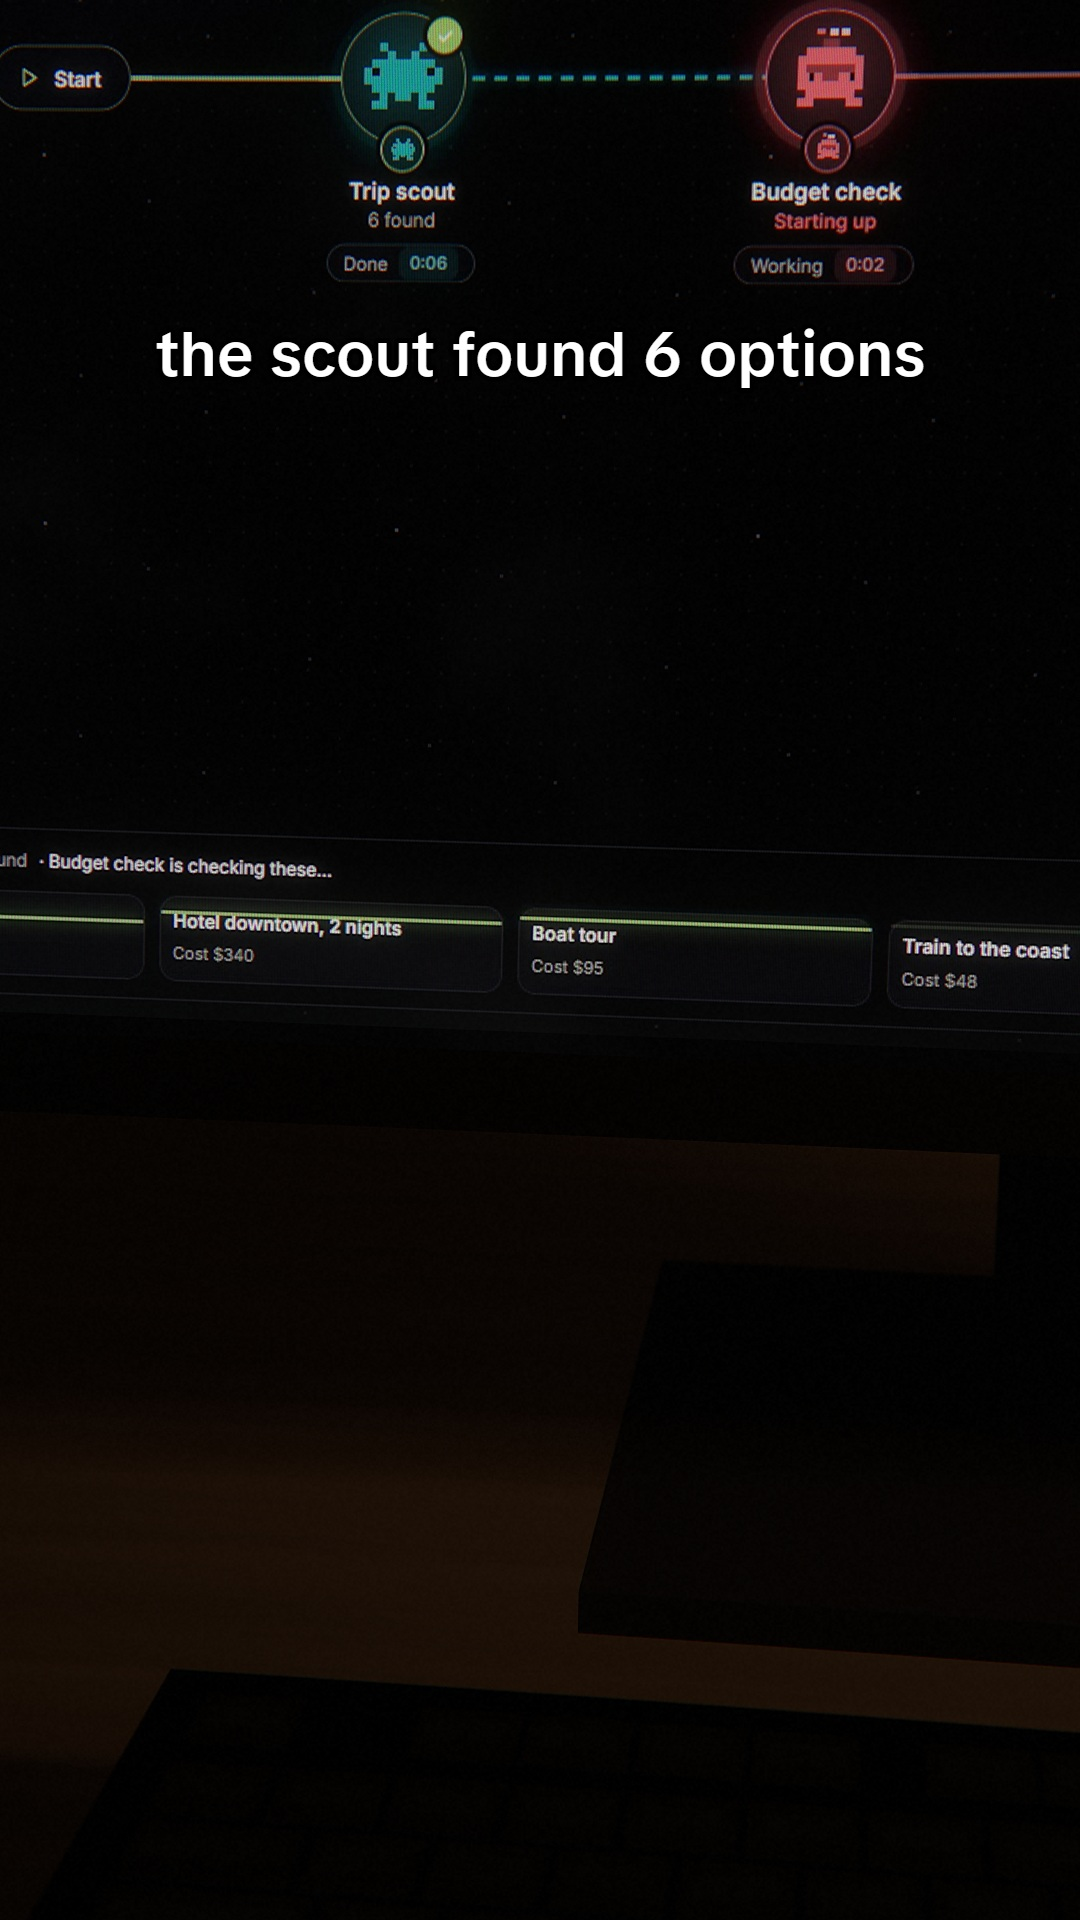
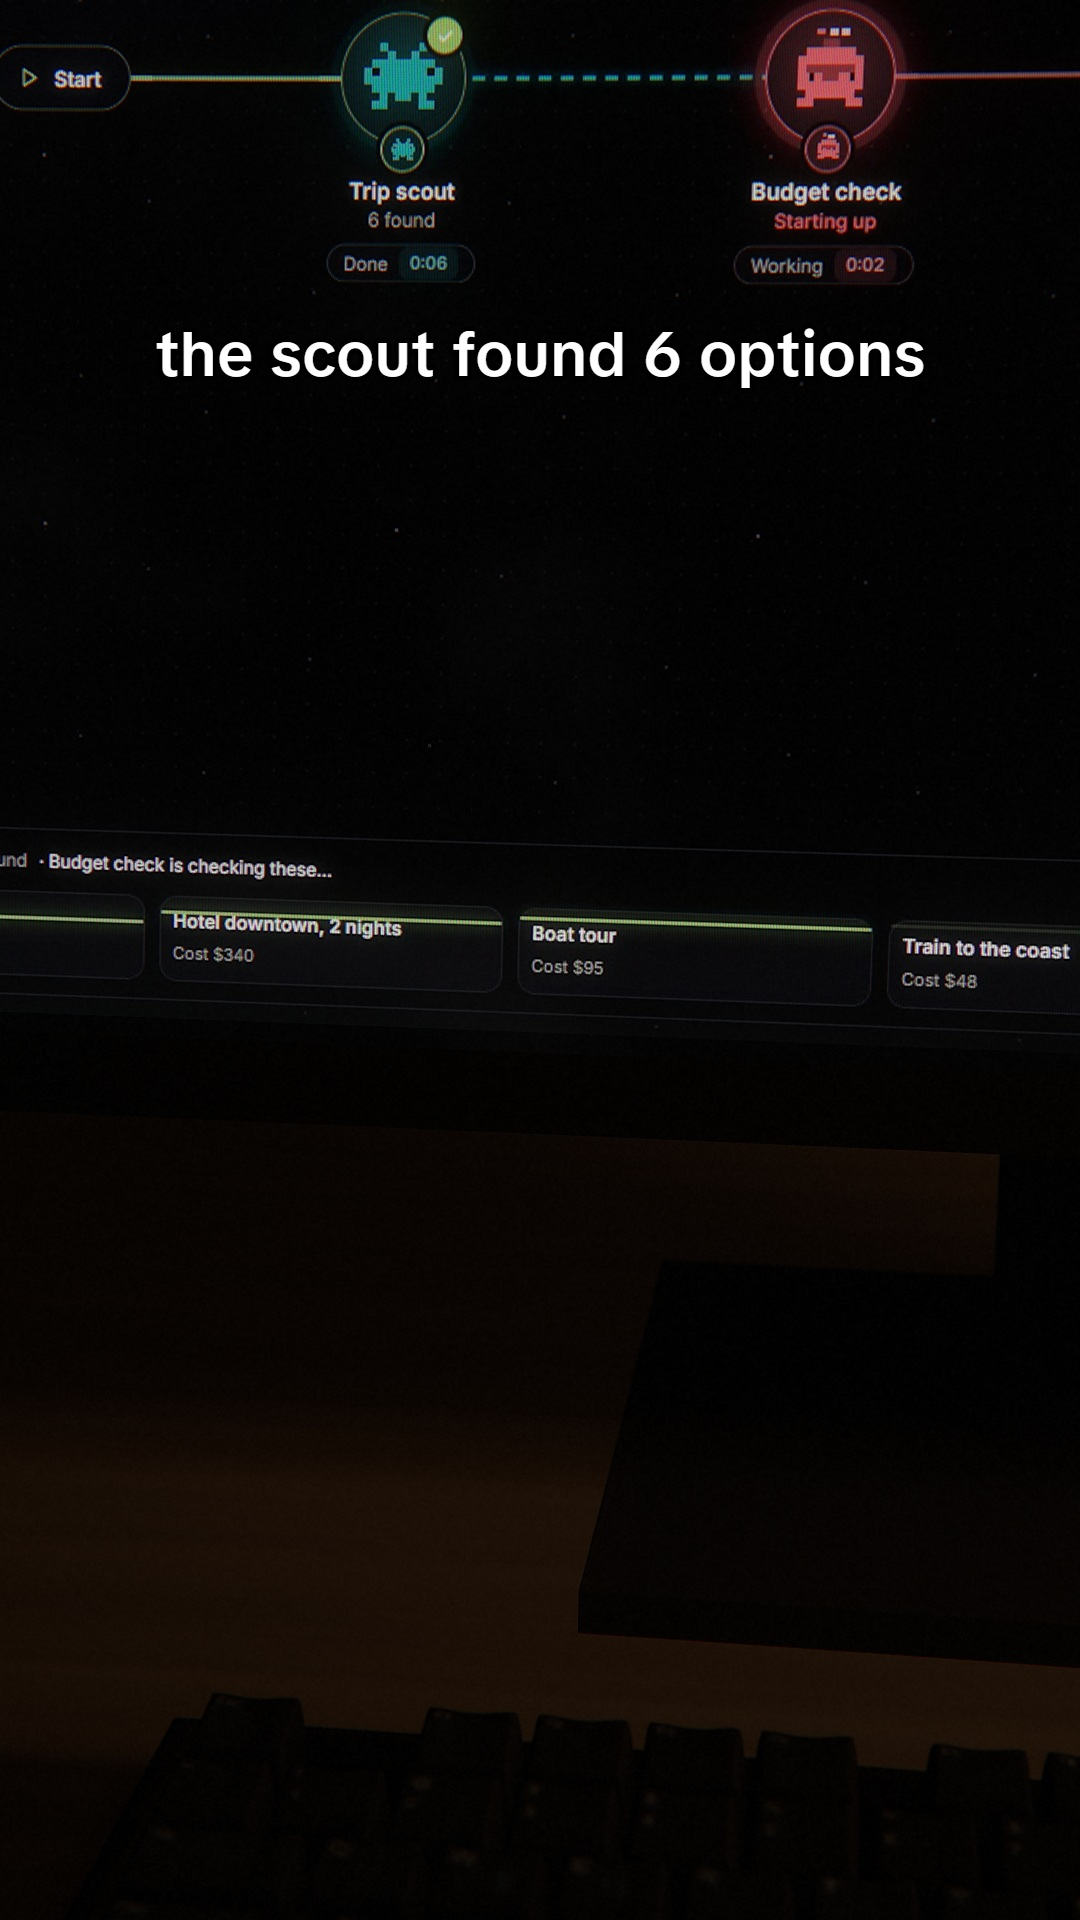
Night film: a 3D keyboard with sculpted caps and legends
The keyboard was a flat box with key outlines painted on. It is now a heightfield
marched inside its box: row-tilted, dished caps with tapered rounded sides, a case
rim round a sunken plate, QWERTY legends and worn-shiny spots from a canvas texture,
screen and lamp highlights on the caps, and a contact shadow on the desk.
Re-rendered the hustle, trip and phoneplan carousels. render.js takes BROWSER to
use Chrome when headless Edge won't start.

Changed region(s): [[0.1528, 0.8438, 1.0, 0.9375]]

diff --git a/marketing/night-film/phone.html b/marketing/night-film/phone.html
@@ -288,6 +288,46 @@ const cv = document.getElementById("cv");
 cv.width = W; cv.height = H;
 const gl = cv.getContext("webgl2", { preserveDrawingBuffer: true, antialias: false, alpha: false });
 gl.getExtension("EXT_color_buffer_float");
+// The keyboard, a row at a time from the back: "legend*width" (in key units, 1 if left out), "|n" a gap n wide, "_" a blank cap
+const KEYS = [
+  "Esc |1 F1 F2 F3 F4 |.5 F5 F6 F7 F8 |.5 F9 F10 F11 F12 |.5 PrtSc ScrLk Pause",
+  "` 1 2 3 4 5 6 7 8 9 0 - = Backspace*2 |.5 Ins Home PgUp",
+  "Tab*1.5 Q W E R T Y U I O P [ ] \\*1.5 |.5 Del End PgDn",
+  "Caps*1.75 A S D F G H J K L ; ' Enter*2.25",
+  "Shift*2.25 Z X C V B N M , . / Shift*2.75 |1.5 ↑",
+  "Ctrl*1.25 Win*1.25 Alt*1.25 _*6.25 Alt*1.25 Fn*1.25 Menu*1.25 Ctrl*1.25 |.5 ← ↓ →",
+].map((r) => r.split(" ").map((s) => s[0] === "|" ? { w: -+s.slice(1) } : { l: s.replace(/\*[\d.]+$/, ""), w: +(/\*([\d.]+)$/.exec(s)?.[1] ?? 1) }));
+const KW_GLSL = KEYS.flatMap((r) => [...r.map((k) => k.w), ...Array(20 - r.length).fill(0)]).map((w) => w.toFixed(3)).join(",");
+const KB_PX = 64, KB_U = 1.905, KB_SIZE = [36.85, 13.5];   // texels per cm; a key unit; the keyboard's top, cm (KB1 - KB0 in the shader)
+// its tops as a texture: r the legends, g how polished the caps are (the home row, WASD, the space bar's middle), b each cap's own tint
+const kbCanvas = (() => {
+  const c = document.createElement("canvas"); c.width = Math.round(KB_SIZE[0] * KB_PX); c.height = Math.round(KB_SIZE[1] * KB_PX);
+  const g = c.getContext("2d"), P = KB_PX, SHIFT = { "`": "~", 1: "!", 2: "@", 3: "#", 4: "$", 5: "%", 6: "^", 7: "&", 8: "*", 9: "(", 0: ")",
+    "-": "_", "=": "+", "[": "{", "]": "}", "\\": "|", ";": ":", "'": "\"", ",": "<", ".": ">", "/": "?" };
+  const WORN = { A: .8, S: .9, D: .9, F: .7, J: .7, K: .6, L: .5, W: .9, E: .8, R: .5, T: .4, N: .4, O: .5, I: .5, H: .4, Backspace: .7, Enter: .6, Shift: .5, Ctrl: .5, _: .9 };
+  g.fillStyle = "#000"; g.fillRect(0, 0, c.width, c.height); g.globalCompositeOperation = "lighter";
+  let seed = 7; const rnd = () => (seed = (seed * 16807) % 2147483647) / 2147483647;
+  KEYS.forEach((row, ri) => {
+    const z0 = 0.75 + (ri === 0 ? 0 : KB_U * (0.25 + ri)); let x0 = 0.8;
+    for (const k of row) {
+      const w = Math.abs(k.w) * KB_U; if (k.w < 0) { x0 += w; continue; }
+      const L = x0 + 0.34, T = z0 + 0.34, cx = (x0 + w / 2) * P, cz = (z0 + KB_U / 2) * P;
+      g.fillStyle = `rgb(0,0,${Math.round(255 * rnd())})`; g.fillRect(x0 * P, z0 * P, w * P, KB_U * P);
+      const wv = WORN[k.l] ?? (/^[A-Z]$/.test(k.l) ? .25 : .1);   // a soft polished patch where the finger lands
+      g.save(); g.translate(cx, cz); g.scale(k.l === "_" ? 3.2 : Math.min(w / KB_U, 1.6), 1);
+      const gr = g.createRadialGradient(0, 0, 0, 0, 0, 0.62 * P); gr.addColorStop(0, `rgba(0,${Math.round(255 * wv)},0,1)`); gr.addColorStop(1, "rgba(0,0,0,1)");
+      g.fillStyle = gr; g.fillRect(-P, -P, 2 * P, 2 * P); g.restore();
+      g.fillStyle = "#f00"; g.textBaseline = "top"; g.textAlign = "left";
+      if (k.l === "_") {}
+      else if (SHIFT[k.l]) { g.font = `500 ${0.3 * P}px Arial`; g.fillText(SHIFT[k.l], L * P, T * P); g.fillText(k.l, L * P, (T + 0.55) * P); }
+      else if (/^[A-Z]$/.test(k.l)) { g.font = `500 ${0.4 * P}px Arial`; g.fillText(k.l, L * P, T * P); }
+      else if (/^[←↑↓→]$/.test(k.l)) { g.font = `${0.36 * P}px Arial`; g.textAlign = "center"; g.fillText(k.l, cx, (z0 + 0.62) * P); }
+      else { g.font = `500 ${(k.l.length > 3 ? 0.2 : 0.24) * P}px Arial`; g.fillText(k.l, L * P, T * P); }
+      x0 += w;
+    }
+  });
+  return c;
+})();
 const SCENE = `#version 300 es
 precision highp float;
 precision highp int;
@@ -306,7 +346,7 @@ const float SW = 59.8, SH = 33.6;              // the panel's active area, cm
 const float BS = 0.75, BT = 0.75, BB = 2.1;    // bezel: sides, top, chin
 const float BORDER = 0.42, DEPTH = 4.5;        // the panel's black mask inside the bezel; the body's depth
 const float PI = 3.14159265;
-const vec3 KB0 = vec3(-19.0, 0.0, 11.0), KB1 = vec3(17.0, 2.4, 24.5);
+const vec3 KB0 = vec3(-19.0, 0.0, 11.0), KB1 = vec3(17.85, 2.7, 24.5);
 const vec3 NECK0 = vec3(-3.6, 0.9, -11.0), NECK1 = vec3(3.6, 24.0, -6.5);
 const vec3 BASE0 = vec3(-12.5, 0.0, -19.0), BASE1 = vec3(12.5, 0.9, 3.5);
 const float WALL = -36.0, DESK_EDGE = 72.0, KU = 1.905;
@@ -327,14 +367,14 @@ const vec3 FRAME0[5] = vec3[5](vec3(-95.0, 17.0, GLASS), vec3(90.0, 17.0, GLASS)
 const vec3 FRAME1[5] = vec3[5](vec3(-90.0, 250.0, GLASS + 4.0), vec3(95.0, 250.0, GLASS + 4.0), vec3(-45.5, 250.0, GLASS + 4.0), vec3(50.5, 250.0, GLASS + 4.0), vec3(95.0, 22.0, GLASS + 4.0));
 const vec3 GLOW = vec3(0.0011, 0.0012, 0.0017);   // the city's light through the window, mostly onto what faces it
 #endif
-// a tenkeyless layout, row by row from the back: key widths in units, gaps negative
-const float KW[120] = float[120](
-  1.,-1.,1.,1.,1.,1.,-.5,1.,1.,1.,1.,-.5,1.,1.,1.,1.,-.5,1.,1.,1.,
-  1.,1.,1.,1.,1.,1.,1.,1.,1.,1.,1.,1.,1.,2.,-.5,1.,1.,1.,0.,0.,
-  1.5,1.,1.,1.,1.,1.,1.,1.,1.,1.,1.,1.,1.,1.5,-.5,1.,1.,1.,0.,0.,
-  1.75,1.,1.,1.,1.,1.,1.,1.,1.,1.,1.,1.,2.25,0.,0.,0.,0.,0.,0.,0.,
-  2.25,1.,1.,1.,1.,1.,1.,1.,1.,1.,1.,2.75,-1.5,1.,0.,0.,0.,0.,0.,0.,
-  1.25,1.25,1.25,6.25,1.25,1.25,1.25,1.25,-.5,1.,1.,1.,0.,0.,0.,0.,0.,0.,0.,0.);
+// a tenkeyless layout, row by row from the back: key widths in units, gaps negative (from KEYS)
+const float KW[120] = float[120](${KW_GLSL});
+uniform sampler2D uKb;   // the caps' printed legends (r) and where years of typing have polished them (g), over the keyboard's top
+// The keyboard in cm: a low case with a rim round a sunken plate, and sculpted caps standing on it (an OEM-like profile: each row's
+// tops tilted its own way, each top dished, the sides tapering in, the corners rounded)
+const float KPLATE = 1.15, KRIM = 1.6, KSKIRT = 0.28, KGAP = 0.07, KTAPER = 0.27, KRAD = 0.17, KBPX = ${KB_PX}.0;
+const float ROWTOP[6] = float[6](2.42, 2.47, 2.37, 2.29, 2.32, 2.34);
+const float ROWTILT[6] = float[6](-0.16, -0.18, -0.1, 0.0, 0.08, 0.12);   // back of the top to its front, cm
 
 uint hashu(uint x) { x ^= x >> 16; x *= 0x7feb352dU; x ^= x >> 15; x *= 0x846ca68bU; x ^= x >> 16; return x; }
 float rnd(inout uint s) { s = hashu(s); return float(s) / 4294967296.0; }
@@ -350,6 +390,75 @@ bool box(vec3 ro, vec3 rd, vec3 lo, vec3 hi, out float t, out vec3 n) {
   if (tn > tf || tn <= 0.0) return false;
   n = tn == mn.x ? vec3(-sign(rd.x), 0.0, 0.0) : tn == mn.y ? vec3(0.0, -sign(rd.y), 0.0) : vec3(0.0, 0.0, -sign(rd.z));
   return true;
+}
+// The keyboard's surface: its height above the desk at k (cm from its back-left corner). m: 0 the case, 1 the plate, 2 a cap;
+// kc: where on that cap's top (0 to 1 across, back to front) and how high its top is there
+float kbH(vec2 k, out int m, out vec3 kc) {
+  vec2 S = KB1.xz - KB0.xz, e2 = min(k, S - k);
+  float e = min(e2.x, e2.y);
+  m = 0; kc = vec3(0.0);
+  float rim = KRIM - 0.3 + sqrt(max(0.09 - pow(max(0.3 - e, 0.0), 2.0), 0.0));   // the case's rim, its outer edge rounded over
+  if (e < 0.64) return mix(KPLATE, rim, smoothstep(0.64, 0.5, e));
+  m = 1;
+  float z = k.y - 0.75, rz; int row;
+  if (z < 0.0) return KPLATE;
+  if (z < KU) { row = 0; rz = z; }
+  else { z -= KU * 1.25; if (z < 0.0) return KPLATE; row = 1 + int(z / KU); if (row > 5) return KPLATE; rz = z - float(row - 1) * KU; }
+  float x = k.x - 0.8, xs = 0.0;
+  if (x < 0.0) return KPLATE;
+  for (int i = 0; i < 20; i++) {
+    float w = KW[row * 20 + i];
+    if (w == 0.0) break;
+    float aw = abs(w) * KU;
+    if (x < xs + aw) {
+      if (w < 0.0) return KPLATE;
+      vec2 c = vec2(x - xs - aw * 0.5, rz - KU * 0.5), hs = vec2(aw, KU) * 0.5 - KGAP * 0.5;   // from the key's centre; its base's half size
+      vec2 q = abs(c) - hs + KRAD;
+      float s = -(length(max(q, 0.0)) + min(max(q.x, q.y), 0.0) - KRAD) / KTAPER;   // 0 at the base's edge, 1 where the top begins
+      if (s <= 0.0) return KPLATE;
+      vec2 uv = c / (hs - KTAPER) * 0.5 + 0.5;
+      float dish = 0.055 * smoothstep(0.0, 0.55, hs.x - KTAPER - abs(c.x)) * (aw > 5.0 ? 0.25 : 1.0);   // the top's scoop, side to side
+      float top = ROWTOP[row] + ROWTILT[row] * (uv.y - 0.5) - dish;
+      m = 2; kc = vec3(uv, top);
+      return KPLATE + (top - KPLATE) * (s >= 1.0 ? 1.0 : 1.0 - pow(1.0 - s, 4.0));   // steep sides rolling over into the top
+    }
+    xs += aw;
+  }
+  return KPLATE;
+}
+float kbH(vec2 k) { int m; vec3 kc; return kbH(k, m, kc); }
+// the ray against that surface: into the keyboard's box, then marched over the keys, the crossing found by halving
+bool kbHit(vec3 ro, vec3 rd, float tmax, out float t, out vec3 n) {
+  vec3 inv = 1.0 / rd, t0 = (KB0 - ro) * inv, t1 = (KB1 - ro) * inv, mn = min(t0, t1), mx = max(t0, t1);
+  float tn = max(max(mn.x, mn.y), mn.z), tf = min(min(mx.x, mx.y), mx.z);
+  t = 0.0; n = vec3(0.0, 1.0, 0.0);
+  if (tn > tf || tf <= 0.0 || tn > tmax) return false;
+  tn = max(tn, 0.0);
+  vec3 p = ro + rd * tn;
+  if (p.y < kbH(p.xz - KB0.xz)) {   // through the case's side
+    t = tn; n = tn == mn.x ? vec3(-sign(rd.x), 0.0, 0.0) : vec3(0.0, 0.0, -sign(rd.z));
+    return t > 0.0;
+  }
+  float te = min(tf, tmax), dt = (te - tn) / 96.0, ta = tn;
+  for (int i = 1; i <= 96; i++) {
+    float tb = tn + dt * float(i);
+    vec3 q = ro + rd * tb;
+    if (q.y < 2.65 && q.y < kbH(q.xz - KB0.xz)) {
+      for (int j = 0; j < 7; j++) { float tm = 0.5 * (ta + tb); vec3 r = ro + rd * tm; if (r.y < kbH(r.xz - KB0.xz)) tb = tm; else ta = tm; }
+      t = tb; vec2 k = (ro + rd * t).xz - KB0.xz; const float E = 0.012;
+      n = normalize(vec3(kbH(k - vec2(E, 0.0)) - kbH(k + vec2(E, 0.0)), 2.0 * E, kbH(k - vec2(0.0, E)) - kbH(k + vec2(0.0, E))));
+      return true;
+    }
+    ta = tb;
+  }
+  return false;
+}
+float kbContact(vec3 p) {   // the desk darkens right up against the keyboard, where little light gets in
+#ifdef NOKB
+  return 1.0;
+#else
+  return mix(0.4, 1.0, smoothstep(0.0, 1.8, length(max(max(KB0.xz - p.xz, p.xz - KB1.xz), 0.0))));
+#endif
 }
 vec3 toLocal(vec3 v) { return vec3(dot(v, uMr), dot(v, uMu), dot(v, uMn)); }
 bool monitorBox(vec3 ro, vec3 rd, out float t, out vec3 n) {   // in the monitor's own frame
@@ -372,7 +481,7 @@ int trace(vec3 ro, vec3 rd, out float tt, out vec3 n, out vec3 lp) {
   if (box(ro, rd, NECK0, NECK1, t, nn) && t < tt) { tt = t; n = nn; id = 3; }
   if (box(ro, rd, BASE0, BASE1, t, nn) && t < tt) { tt = t; n = nn; id = 4; }
 #ifndef NOKB
-  if (box(ro, rd, KB0, KB1, t, nn) && t < tt) { tt = t; n = nn; id = 7; }
+  if (kbHit(ro, rd, tt, t, nn)) { tt = t; n = nn; id = 7; }
 #endif
 #ifdef CITY
   if (box(ro, rd, BOARD0, BOARD1, t, nn) && t < tt) { tt = t; n = nn; id = 11; }
@@ -470,29 +579,29 @@ vec3 screenAt(vec3 lp, vec3 rd, vec2 fp) {
   float glow = 0.012 * pow(1.0 - cosv, 1.3) + 0.0022 * exp(-e.y / 1.8) * (0.4 + fbm(lp.xy * 0.25)) + 0.0012 * exp(-e.x / 2.5);   // IPS glow and backlight bleed
   return (c + vec3(0.82, 0.88, 1.0) * glow) * uBright;
 }
-// 0 between the keys, 0.6 on a cap's sides, 1 on its top; k is cm from the keyboard's back-left corner, b the blur in cm
-float keycap(vec2 k, float b) {
-  float z = k.y - 0.75, rz; int row;
-  if (z < 0.0) return 0.0;
-  if (z < KU) { row = 0; rz = z; }
-  else { z -= KU * 1.25; if (z < 0.0) return 0.0; row = 1 + int(z / KU); rz = z - float(row - 1) * KU; if (row > 5) return 0.0; }
-  float x = k.x - 0.8, xs = 0.0;
-  for (int i = 0; i < 20; i++) {
-    float w = KW[row * 20 + i];
-    if (w == 0.0) break;
-    float aw = abs(w) * KU;
-    if (x < xs + aw) {
-      if (w < 0.0 || x < 0.0) return 0.0;
-      vec2 c = vec2(x - xs, rz), sz = vec2(aw, KU);
-      float bb = max(b, 0.05);
-      vec2 d1 = min(c, sz - c);
-      float side = smoothstep(0.03, 0.03 + bb, min(d1.x, d1.y));
-      float top = smoothstep(0.26, 0.26 + bb, min(min(c.x, sz.x - c.x), min(c.y - 0.12, sz.y - 0.45 - c.y)));
-      return side * mix(0.6, 1.0, top);
-    }
-    xs += aw;
-  }
-  return 0.0;
+// the keyboard lit: caps of capC with legends of legC printed on their tops, the plate and the case; gloss is how much the caps
+// shine, more where fingers have polished them. Down between the caps, little of the room's light gets in
+vec3 keyboard(vec3 p, vec3 n, vec3 d, float t, inout uint seed, vec3 capC, vec3 legC, vec3 plateC, vec3 caseC, float gloss) {
+  int m; vec3 kc; vec2 k = p.xz - KB0.xz;
+  float h = kbH(k, m, kc);
+  if (abs(n.y) < 0.05 && h < KRIM) m = 0;   // the case's sides
+  float fp = (2.0 * uAp * abs(1.0 - t / uFocus) + t / uF) * KBPX;   // how many texels one sample's blur covers
+  vec4 tx = textureLod(uKb, k / (KB1.xz - KB0.xz), log2(max(fp, 1.0)));
+  vec3 alb = caseC; float ao = 1.0, sh = 0.25;
+  if (m == 2) {
+    float onTop = smoothstep(0.86, 0.97, (h - KPLATE) / (kc.z - KPLATE));
+    alb = mix(capC * (0.9 + 0.2 * tx.b) * (0.94 + 0.12 * fbm(p.xz * 3.1)), legC, tx.r * onTop);
+    ao = mix(0.25, 1.0, smoothstep(KPLATE, kc.z, h));
+    sh = mix(0.35, 1.0, onTop);
+  } else if (m == 1) { alb = plateC; ao = 0.2; sh = 0.1; }
+  vec3 l, le = lampLight(p, n, seed, l);
+  vec3 e = (screenLight(p, n) * LIFT + bounce(p, n) + AMBIENT) * ao + le * mix(1.0, ao, 0.6);
+#ifdef CITY
+  e += GLOW * (0.5 + 0.5 * max(-n.z, 0.0)) * ao;
+#endif
+  float fres = 0.04 + 0.96 * pow(1.0 - clamp(-dot(d, n), 0.0, 1.0), 5.0), g = gloss * sh * (0.35 + 1.65 * tx.g);
+  vec3 r = reflect(d, n);
+  return alb * e + (reflScreen(p, r, mix(6.5, 4.0, tx.g)) * fres * g + le * fres * g * 6.0 * pow(max(dot(n, normalize(l - d)), 0.0), mix(18.0, 50.0, tx.g))) * ao;
 }
 
 #ifdef CITY
@@ -590,17 +699,15 @@ vec3 radiance(vec3 o, vec3 d, vec2 fp, inout uint seed) {
 #ifdef CITY
   if (id == 5) {   // light oak, its grain along the desk, in a satin finish that catches the panel
     vec3 oak = vec3(0.34, 0.235, 0.145) * (0.78 + 0.44 * fbm(p.xz * vec2(0.045, 0.9)));
-    return lit(p, n, oak, seed) + reflScreen(p, reflect(d, n), 5.0) * 0.025;
+    return lit(p, n, oak, seed) * kbContact(p) + reflScreen(p, reflect(d, n), 5.0) * 0.025;
   }
   if (id == 6) return lit(p, n, vec3(0.42, 0.42, 0.43) * (0.95 + 0.1 * fbm(p.xy * 0.05)), seed);
-  if (id == 7) {   // a white keyboard (DARKKB: graphite, caps faintly catching the screen)
+  if (id == 7) {   // a white keyboard with grey legends (DARKKB: graphite caps, pale legends, catching the screen)
 #ifdef DARKKB
-    float cap = keycap(p.xz - KB0.xz, 2.0 * uAp * abs(1.0 - t / uFocus) + t / uF);
-    if (n.y > 0.5) return lit(p, n, vec3(mix(0.006, 0.04, cap) * (0.85 + 0.3 * fbm(p.xz * 2.3))), seed) + reflScreen(p, reflect(d, n), 6.0) * 0.012 * cap;
-    return lit(p, n, vec3(0.018), seed);
+    return keyboard(p, n, d, t, seed, vec3(0.03, 0.03, 0.033), vec3(0.32, 0.32, 0.31), vec3(0.008), vec3(0.022), 0.6);
+#else
+    return keyboard(p, n, d, t, seed, vec3(0.56, 0.555, 0.54), vec3(0.07), vec3(0.3), vec3(0.5), 0.15);
 #endif
-    if (n.y > 0.5) return lit(p, n, vec3(mix(0.1, 0.5, keycap(p.xz - KB0.xz, 2.0 * uAp * abs(1.0 - t / uFocus) + t / uF))), seed);
-    return lit(p, n, vec3(0.42), seed);
   }
   if (id == 9) return glassView(p, d, seed);
   if (id == 10) return lit(p, n, vec3(0.02), seed);              // the frame, black aluminium
@@ -611,17 +718,14 @@ vec3 radiance(vec3 o, vec3 d, vec2 fp, inout uint seed) {
     float mat = step(abs(q.x), 42.0) * step(-6.0, q.y) * step(q.y, 40.0);
     vec3 wood = vec3(0.075, 0.045, 0.028) * (0.7 + 0.6 * fbm(q * vec2(0.08, 1.4)));
     vec3 felt = vec3(0.032, 0.033, 0.036) * (0.85 + 0.3 * fbm(q * 3.0));
-    return lit(p, n, mix(wood, felt, mat), seed);
+    return lit(p, n, mix(wood, felt, mat), seed) * kbContact(p);
   }
 #ifdef NIGHT
   if (id == 6) return lit(p, n, vec3(0.10, 0.16, 0.14) * (0.92 + 0.16 * fbm(p.xy * 0.05)), seed);   // painted deep green
 #else
   if (id == 6) return lit(p, n, vec3(0.30, 0.29, 0.27) * (0.92 + 0.16 * fbm(p.xy * 0.05)), seed);
 #endif
-  if (id == 7) {
-    if (n.y > 0.5) return lit(p, n, vec3(mix(0.01, 0.055, keycap(p.xz - KB0.xz, 2.0 * uAp * abs(1.0 - t / uFocus) + t / uF))), seed);
-    return lit(p, n, vec3(0.025), seed);
-  }
+  if (id == 7) return keyboard(p, n, d, t, seed, vec3(0.04, 0.04, 0.043), vec3(0.24), vec3(0.01), vec3(0.025), 0.5);
 #endif
   if (id == 8) {   // a leaf: deep green, paler zigzag bands across it, a yellow rim and a waxy shine; the lamp glows through it a little from behind
     int i = int(lp.z + 0.5); float x = lp.x / max(leafWidth(lp.y), 1e-3);   // -1 to 1, edge to edge
@@ -671,6 +775,11 @@ const defines = (room) => (room === "desk" ? "" : `#define ${room.toUpperCase()}
 const scene = (room) => scenes[room] ??= compile(gl, SCENE.replace("\n", "\n" + defines(room)));
 gl.bindVertexArray(gl.createVertexArray());
 const scrTex = texture(gl, gl.SRGB8_ALPHA8, 1920, 1080), hdrTex = texture(gl, gl.RGBA16F, W, H);
+const kbTex = gl.createTexture();
+gl.bindTexture(gl.TEXTURE_2D, kbTex);
+gl.texImage2D(gl.TEXTURE_2D, 0, gl.RGBA8, gl.RGBA, gl.UNSIGNED_BYTE, kbCanvas); gl.generateMipmap(gl.TEXTURE_2D);
+gl.texParameteri(gl.TEXTURE_2D, gl.TEXTURE_MIN_FILTER, gl.LINEAR_MIPMAP_LINEAR); gl.texParameteri(gl.TEXTURE_2D, gl.TEXTURE_MAG_FILTER, gl.LINEAR);
+gl.texParameteri(gl.TEXTURE_2D, gl.TEXTURE_WRAP_S, gl.CLAMP_TO_EDGE); gl.texParameteri(gl.TEXTURE_2D, gl.TEXTURE_WRAP_T, gl.CLAMP_TO_EDGE);
 const fbo = gl.createFramebuffer();
 gl.bindFramebuffer(gl.FRAMEBUFFER, fbo);
 gl.framebufferTexture2D(gl.FRAMEBUFFER, gl.COLOR_ATTACHMENT0, gl.TEXTURE_2D, hdrTex, 0);
@@ -678,6 +787,7 @@ gl.framebufferTexture2D(gl.FRAMEBUFFER, gl.COLOR_ATTACHMENT0, gl.TEXTURE_2D, hdr
 function clipAt(t) { let i = 0; while (i < CLIPS.length - 1 && t >= CLIPS[i + 1].t0) i++; return CLIPS[i]; }
 // the take (or photo) at its own time ct, in that room; passes adds up that many, for a photo with less noise in its blur
 function draw(clip, ct, frame, focal = FOCAL, grain = 1, room = "desk", passes = 1) {
+  gl.activeTexture(gl.TEXTURE2); gl.bindTexture(gl.TEXTURE_2D, kbTex);
   gl.activeTexture(gl.TEXTURE0); gl.bindTexture(gl.TEXTURE_2D, scrTex);
   gl.texSubImage2D(gl.TEXTURE_2D, 0, 0, 0, gl.RGBA, gl.UNSIGNED_BYTE, scr); gl.generateMipmap(gl.TEXTURE_2D);
   const poses = Array.from({ length: 6 }, (_, k) => camAt(clip, ct - SHUT / 2 + k / 5 * (SHUT + READ)));
@@ -685,6 +795,7 @@ function draw(clip, ct, frame, focal = FOCAL, grain = 1, room = "desk", passes =
   gl.bindFramebuffer(gl.FRAMEBUFFER, fbo); gl.viewport(0, 0, W, H);
   const { p, u } = scene(room); gl.useProgram(p);
   gl.uniform1i(u.uScr, 0); gl.uniform2f(u.uRes, W, H);
+  if (u.uKb) gl.uniform1i(u.uKb, 2);
   gl.uniform3fv(u.uP, poses.flatMap((c) => c.p)); gl.uniform3fv(u.uRr, poses.flatMap((c) => c.r));
   gl.uniform3fv(u.uRu, poses.flatMap((c) => c.u)); gl.uniform3fv(u.uRf, poses.flatMap((c) => c.f));
   gl.uniform1f(u.uF, focal); gl.uniform1f(u.uFocus, toScreen(af.p, af.f)); gl.uniform1f(u.uAp, ROOMS[room].ap);

diff --git a/marketing/night-film/render.js b/marketing/night-film/render.js
@@ -39,7 +39,8 @@ const VERT = VERSUS || PHONE || GYM || STILLS || process.argv.includes("--vertic
   await new Promise((r) => server.listen(0, "127.0.0.1", r));
   const page = CARDS ? "cards.html" : STILLS ? `phone.html?set=${STILLS}` : HERO ? "hero.html" : GYM ? "gym.html" : PHONE ? `phone.html${JOBS ? "?job=jobs" : COMMUTE ? "?set=commute" : ""}` : VERSUS ? `versus.html?${ADS ? "job=ads" : ""}` : `film.html?${VERT ? "v=1&" : ""}${HOOK ? "hook=1" : ""}`;
   const url = `http://127.0.0.1:${server.address().port}/marketing/night-film/${page}`;
-  const b = await puppeteer.launch({ executablePath: "C:/Program Files (x86)/Microsoft/Edge/Application/msedge.exe", headless: "new", protocolTimeout: 600000,
+  // BROWSER picks another Chromium (e.g. Chrome, when headless Edge won't start); pipe instead of a port, which both accept
+  const b = await puppeteer.launch({ executablePath: process.env.BROWSER || "C:/Program Files (x86)/Microsoft/Edge/Application/msedge.exe", headless: "new", pipe: true, protocolTimeout: 600000,
     args: ["--enable-gpu", "--ignore-gpu-blocklist", "--autoplay-policy=no-user-gesture-required"] });
   const p = await b.newPage();
   await p.setViewport({ width: VW, height: VH });
